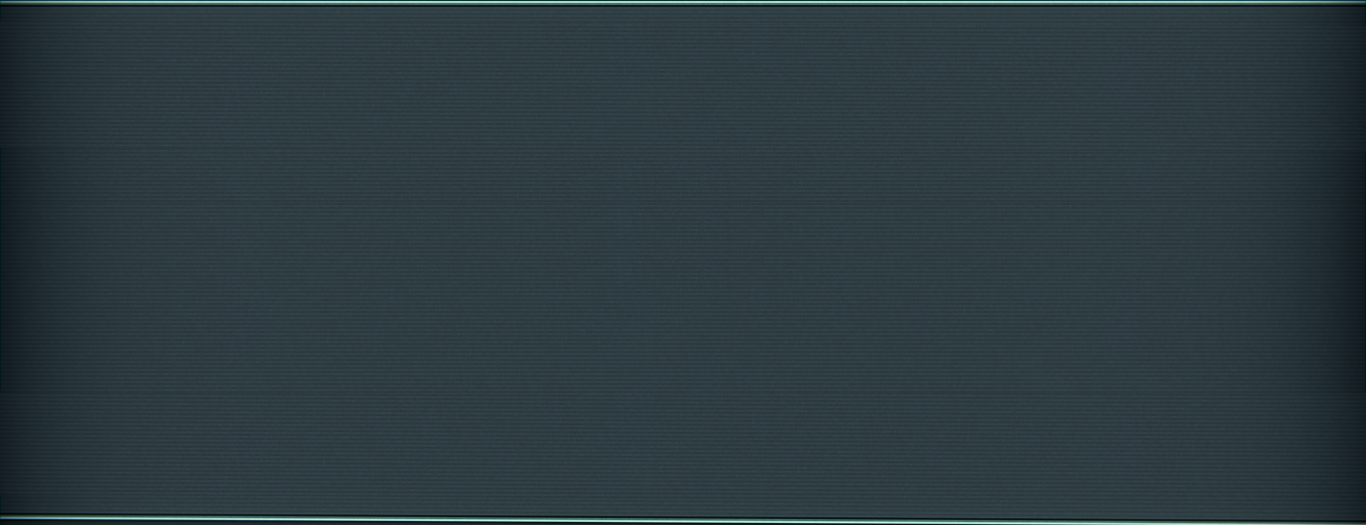
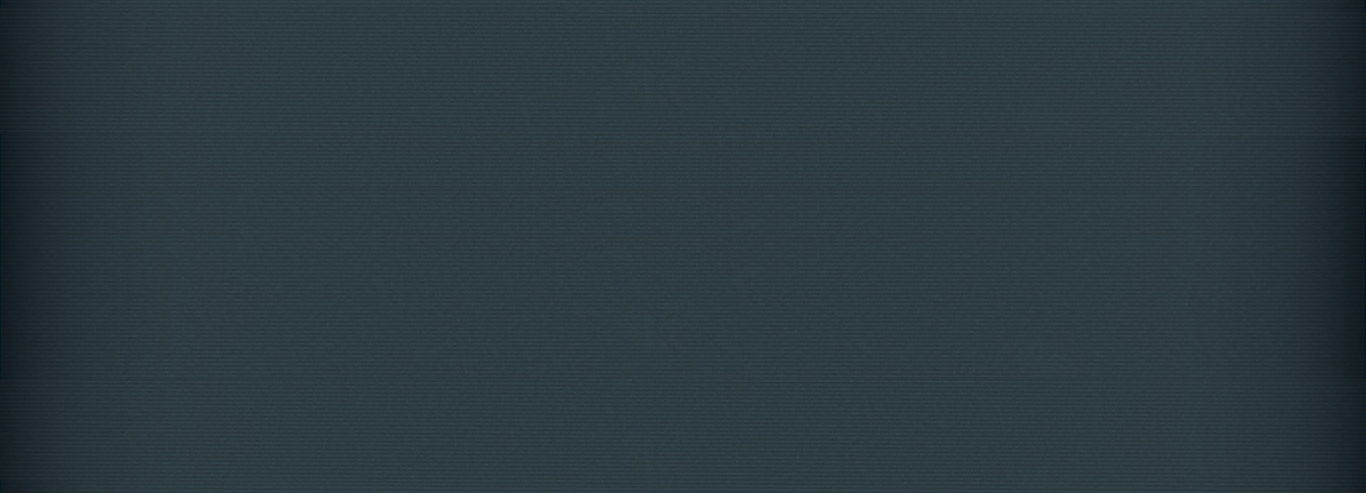
- [ RuleGUI ]  - change background and add some pane

Changed region(s): [[0.0, 0.9736, 1.0, 1.0], [0.0, 0.0, 1.0, 0.0304]]

diff --git a/src/main/resources/css/application.css b/src/main/resources/css/application.css
@@ -85,8 +85,8 @@
 	-fx-border-width: 2;
 }
 
-.ruleTopBotton{
-	-fx-background-image: url("/image/rule-background-top-bottom.png");
+.ruleTop{
+	-fx-background-image: url("/image/rule-background-top.png");
 	-fx-background-repeat: no-repeat;
 	-fx-background-size: contain;
 	-fx-background-size: 100% 100%;
@@ -98,6 +98,13 @@
 	-fx-background-size: contain;
 	-fx-background-size: 100% 100%;
 	-fx-padding: 40;
+}
+
+.ruleBotton{
+	-fx-background-image: url("/image/rule-background-botton.png");
+	-fx-background-repeat: no-repeat;
+	-fx-background-size: contain;
+	-fx-background-size: 100% 100%;
 }
 
 .styleRuleTITLE{

diff --git a/src/main/java/view/RuleSceneController.java b/src/main/java/view/RuleSceneController.java
@@ -3,6 +3,7 @@ package view;
 import static view.ViewState.HEIGHT;
 import static view.ViewState.WIDTH;
 
+import gamemaster.GameMaster;
 import javafx.fxml.FXML;
 import javafx.scene.control.Label;
 import javafx.scene.input.MouseEvent;
@@ -46,6 +47,20 @@ public class RuleSceneController {
                 + "on the center - there is the 'board-zone' this zone show the player and the enemy field and the card placed on it. the cards on the row on the top are the enemy's card\n"
                 + "on the right - there is the 'card-detail-zone' this zone will display more detail of a card if you click on it\n"
                 + "on the botton - there is the 'hand-zone' this zone show the card in the player hand\n");
+        
+        victory_condition.setWrapText(true);
+        victory_condition.setText("the scope of the game is inflict damage to the AI until it's life reach: "+GameMaster.MIN_PLAYER_LIFE+"\n"
+                + "the life is a balance. if you inflict damage to the AI you will steal it's life.");
+        
+        game_phases.setWrapText(true);
+        game_phases.setText("the game is exectially divided in 3 phase: drawPhase mainPhase battlePhase\n" 
+                +"on the start on your turn the draw-phase is automatically done, than you are in the mainphase until you click the battlephase button\n"
+                +"the AI always play the first turn before you");
+        
+        draw_phase.setWrapText(true);
+        main_phase.setWrapText(true);
+        battle_phase.setWrapText(true);
+        effects.setWrapText(true);
     }
     
 
